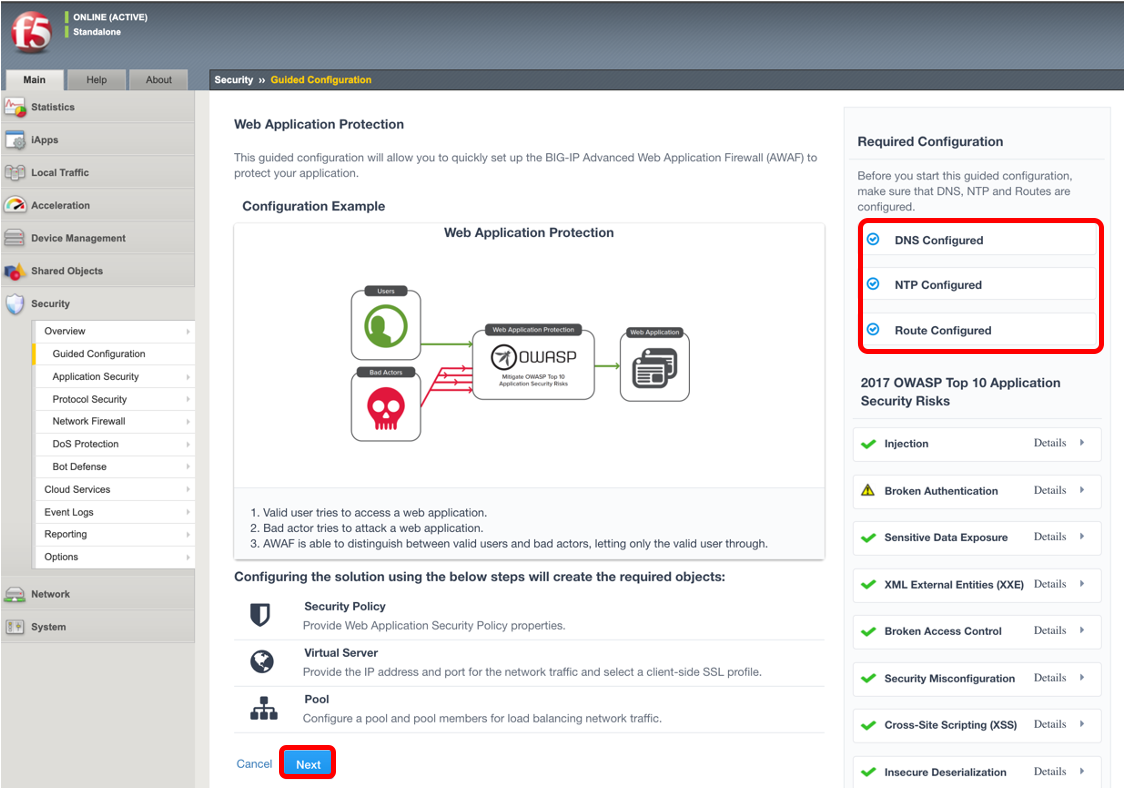
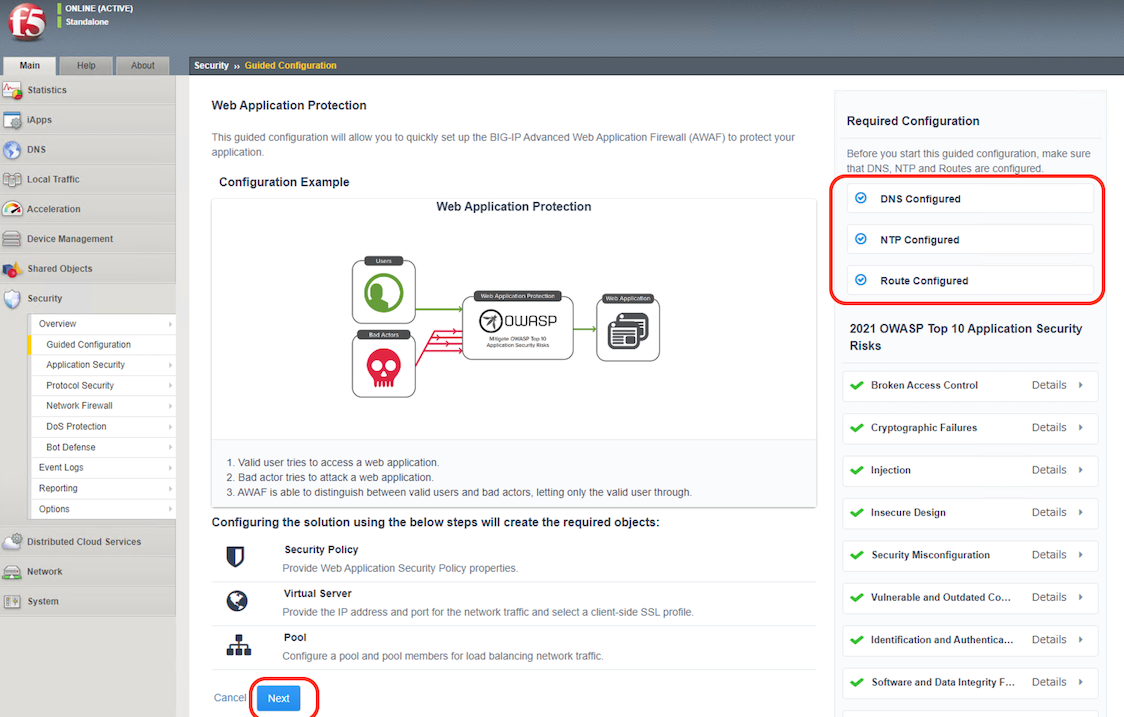
v17.1用更新

diff --git a/docs/content1/module05/module05.rst b/docs/content1/module05/module05.rst
@@ -5,7 +5,7 @@ Guided configurationによるWAFポリシーの作成
 
    .. image:: images/mod5-1.png
    |  
-#. `ASKF5のDownloadサイト <https://downloads.f5.com/>`__ にて、最新版のGuided Configurationをダウンロードします。ダウンロードにはAskF5のアカウント登録が必要となります。アカウント登録は数分で行うことはできますが、F5ハンズオン受講者でアカウントをすぐに作成することができない方は、Windows Clientデスクトップ上のダウンロード済みのファイルをご利用下さい。（既に最新版をご利用の場合は、アップデート作業は不要なので、手順7に進んで下さい。）
+#. `MyF5のDownloadサイト <https://my.f5.com/manage/s/downloads>`__ にて、最新版のGuided Configurationをダウンロードします。ダウンロードにはMyF5のアカウント登録が必要となります。アカウント登録は数分で行うことはできますが、F5ハンズオン受講者でアカウントをすぐに作成することができない方は、Windows Clientデスクトップ上のダウンロード済みのファイルをご利用下さい。（既に最新版をご利用の場合は、アップデート作業は不要なので、手順7に進んで下さい。）
 
    .. image:: images/mod5-2.png
    |  

diff --git a/docs/index.rst b/docs/index.rst
@@ -3,9 +3,9 @@
    contain the root `toctree` directive.
 
 
-F5 Advanced WAF v15.1 簡単セットアップガイド
+F5 Advanced WAF v17.1 簡単セットアップガイド
 ==============================================
-最終更新日: 2021年4月23日
+最終更新日: 2023年9月15日
 
 
 はじめに
@@ -13,9 +13,9 @@ F5 Advanced WAF v15.1 簡単セットアップガイド
 このページでは、これらのオフィシャルなドキュメントの補足となる資料や、複数の機能を組合せてソリューションを実現する方法をご紹介いたします。
 F5のオフィシャルなドキュメントはこちらにございます。
 
-- AskF5: https://support.f5.com/csp/home
+- MyF5: https://my.f5.com/manage/s/
 - F5 Cloud Docs: https://clouddocs.f5.com/
-- F5 DevCentral（コミュニティ）: https://devcentral.f5.com/
+- F5 DevCentral（コミュニティ）: https://community.f5.com/
 
 コンテンツ
 ==============================================

diff --git a/docs/content1/module01/module01.rst b/docs/content1/module01/module01.rst
@@ -15,6 +15,6 @@ AWAFであれば、スタンドアローン構成、BIG-IP LTM（ADC）にアド
 
 その他、AWAFの特長や利用メリットは以下の記事をご確認下さい。
 
-- `K85426947: BIG-IP ASM operations guide <https://support.f5.com/csp/article/K85426947>`_
+- `K85426947: BIG-IP ASM operations guide <https://my.f5.com/manage/s/article/K85426947>`_
 
-- `K07359270: Succeeding with application security <https://support.f5.com/csp/article/K07359270>`_
+- `K07359270: Succeeding with application security <https://my.f5.com/manage/s/article/K07359270>`_

diff --git a/docs/content1/module02/module02.rst b/docs/content1/module02/module02.rst
@@ -11,5 +11,5 @@ AWAFスタンドアロン構成ネットワークサンプル
       :align: center
 
    .. note::
-    - **v15.1.2.1以上** のバージョンをご利用下さい。(2021年3月追記)
+    - **v17.1.0.2以上** のバージョンをご利用下さい。
     - （各F5代理店でサポート可能な範囲において、）極力最新のバージョンを適用頂くことをおすすめ致します。最新のバージョンはAskF5でご確認下さい。
